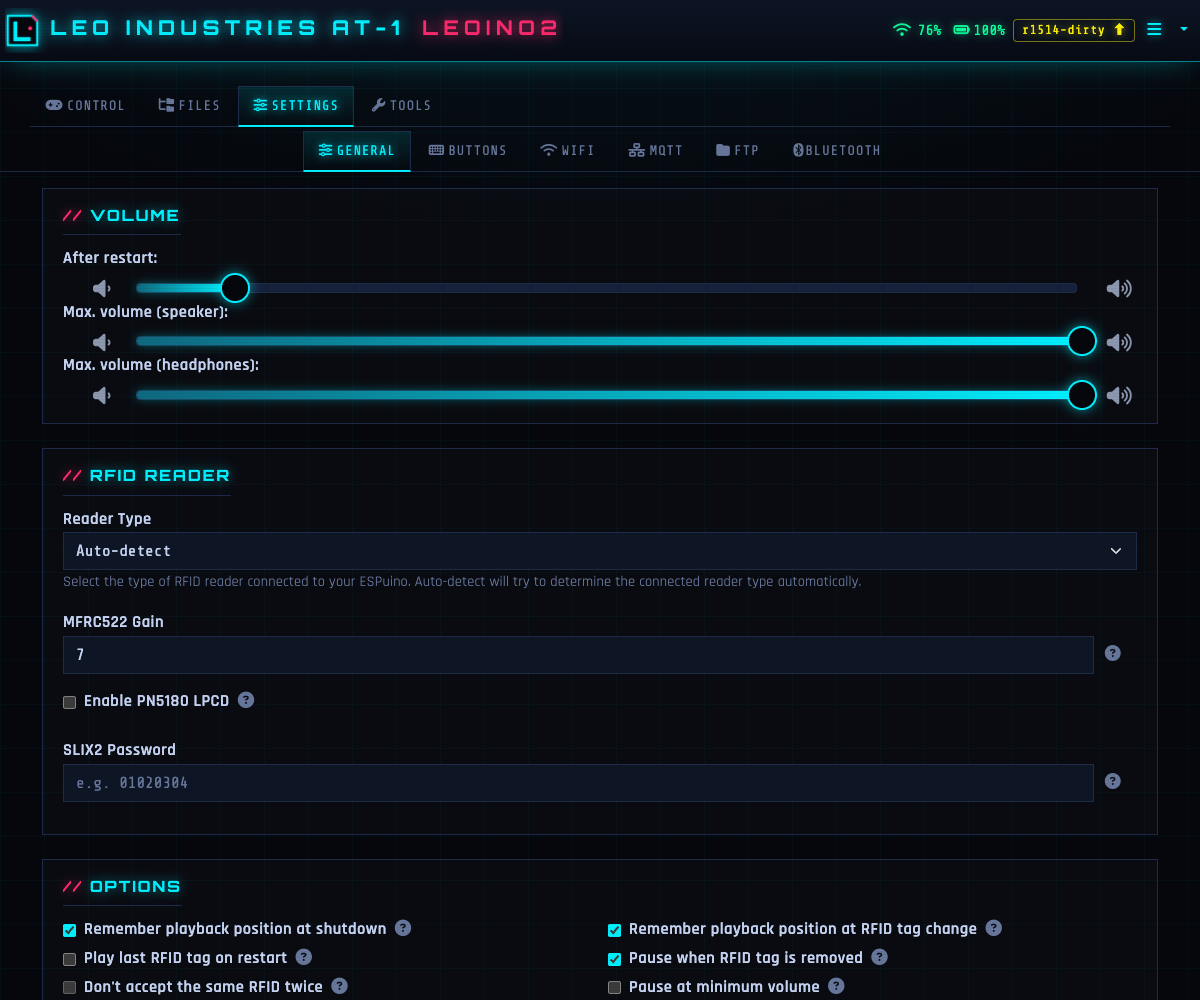
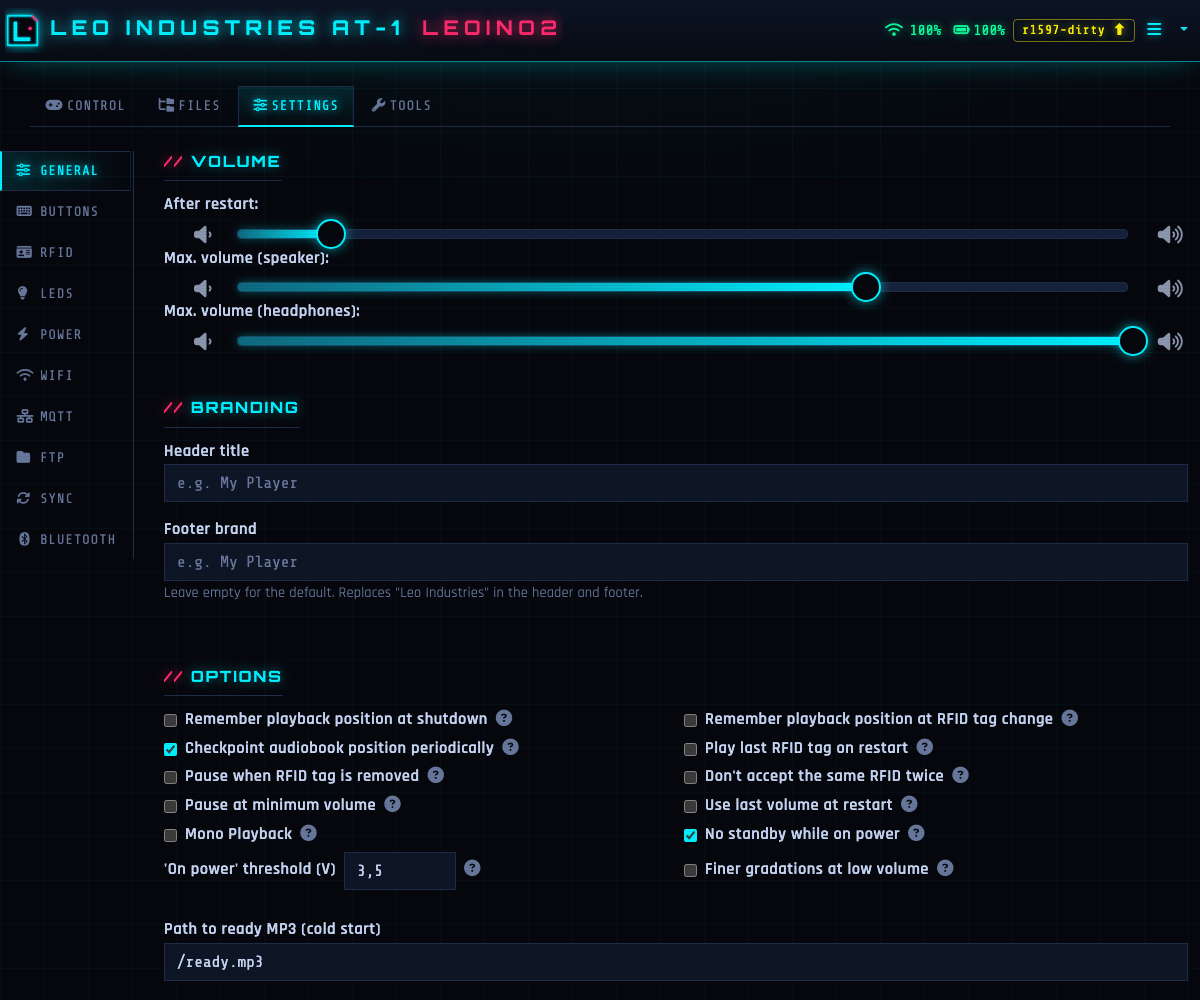
docs: refresh settings screenshots + note the vertical/flat settings UI
Re-shoot feat-settings.png and feat-buttons.png to show the new vertical
UniFi-style settings sidebar and the flat, consistent section styling (the old
shots showed the horizontal sub-tab row, boxed sections and the since-moved
RFID-reader settings). Update the prose that still called the sub-tabs
"horizontal" and add a "Settings UI polish" row covering the vertical sidebar,
flat sections, dropped "Advanced settings" heading and the OTA-badge scroll fix.

diff --git a/README.md b/README.md
@@ -101,6 +101,7 @@ neon logo that doubles as the SVG favicon ([`7be5254`](../../commit/7be5254)):
 
 | Change | Commit |
 | --- | --- |
+| **Settings UI polish**: the Settings sub-tabs are now a **vertical UniFi-style sidebar** (icon + label on desktop, a narrow icon-only rail on mobile) instead of a horizontal tab row, with a cyan left-border active indicator. All settings panes share one **flat** section style (`// heading` + cyan-gradient separators) — previously some panes boxed each section in a fieldset card while others (WiFi/MQTT/FTP/Sync/BT) were flat. Also drops a stray "Advanced settings" heading, and the navbar's amber "update available" badge now scrolls the firmware-update section into view when it starts the OTA | [`32aabfd`](../../commit/32aabfd) · [`[phone redacted]`](../../commit/[phone redacted]) · [`5c3dd45`](../../commit/5c3dd45) |
 | **Audiobook resume hardening**: while an audio book plays, the play-position is now checkpointed to flash every ~30 s (new **"Checkpoint audiobook position periodically"** option, on by default), so an *ungraceful* power-off (dead battery, hard power switch) only loses the last few seconds instead of falling back to the start of the track — the existing save points (track change / RFID swap / graceful shutdown) didn't cover a sudden loss of power mid-track. The learned-cards list shows each audiobook tag's saved resume point and adds a **restart-from-beginning** button (new `POST /rfidresetpos`) to clear it. i18n de/en/fr | [`a9f498f`](../../commit/a9f498f) |
 | **EQ-rule store overflow guard**: per-path EQ rules are serialized into a single NVS string capped at ~4 KB; adding too many used to silently fail. The device now rejects an over-full save with `HTTP 413` (and reports a failed NVS write as `500`), and the Files tab surfaces a clear *"EQ rule storage is full"* toast instead of losing the rule without feedback | [`addff5c`](../../commit/addff5c) |
 | **HTTP-sync robustness**: the file-sync manifest is now streamed straight from the network into the JSON parser (instead of buffering the whole payload in a `String` first), roughly halving peak RAM during the parse on large manifests; the cross-core sync progress message is guarded by a spinlock so the web UI can never read a half-written line | [`42d2c46`](../../commit/42d2c46) |
@@ -133,7 +134,7 @@ neon logo that doubles as the SVG favicon ([`7be5254`](../../commit/7be5254)):
 | System-information dialog rendered as a clean property/value table (instead of preformatted text) and extended with the PN5180 RFID-reader firmware version (read once from the reader's EEPROM at init and exposed via `/info`) | [`715d867`](../../commit/715d867) |
 | Rolling build version (`rN` from the commit count, embedded via `gitVersion.py` and published in the release `version.json`) shown as a navbar badge — green when the device runs the latest rolling release, amber when an update is available (passive `/version` check); clicking the amber badge starts the GitHub OTA; also listed in the info dialog | [`b736abc`](../../commit/b736abc) |
 | Home Assistant **MQTT discovery**: on connect the device auto-registers all entities under one HA device — track/status/firmware/software/WiFi (+ battery) sensors, volume & LED-brightness numbers, lock & ambient-light switches, equalizer select, and transport/update/shutdown buttons | [`db73db1`](../../commit/db73db1) |
-| Consolidated **Settings** tab (UniFi-style): WiFi, MQTT, FTP and Bluetooth settings merged with the general settings into one top tab with centered horizontal sub-tabs (General / Buttons / WiFi / MQTT / FTP / Bluetooth), the button-assignment config moved into its own **Buttons** sub-tab, plus an FTP start/stop button in the control tab; also fixes the sleep-timer dropdown staying open on outside-click and the desktop control-tab volume slider rendering at zero width | [`8b01876`](../../commit/8b01876) |
+| Consolidated **Settings** tab (UniFi-style): WiFi, MQTT, FTP and Bluetooth settings merged with the general settings into one top tab with sub-tabs (General / Buttons / WiFi / MQTT / FTP / Bluetooth), the button-assignment config moved into its own **Buttons** sub-tab, plus an FTP start/stop button in the control tab; also fixes the sleep-timer dropdown staying open on outside-click and the desktop control-tab volume slider rendering at zero width | [`8b01876`](../../commit/8b01876) |
 | Battery-backed **RTC** (DS3231): optional `RTC_ENABLE` adds a real-time clock on the external I²C bus so the time stays correct without WiFi/NTP. The RTC stores UTC and seeds the system clock at boot (before WiFi is up); NTP remains the master and disciplines the RTC on every sync and hourly. Current time (and DS3231 die-temperature) shown in the info dialog, published via the MQTT state-topic `rtc` (+ Home Assistant discovery), and the RTC can be re-disciplined from system time via the bindable command **155** (button/RFID modifier) | [`bf90f66`](../../commit/bf90f66) |
 | **Status control-LEDs**: the optional control LEDs (`NUM_CONTROL_LEDS`, soldered to the end of the same NeoPixel data line — no extra GPIO) can now mirror a runtime state instead of just showing a static color. Each control LED gets a per-slot function in the LED settings — **Static** (legacy fixed color), **Key lock** (red while controls are locked), **Repeat mode** (green = track, blue = playlist, purple = both), **Bluetooth** (violet = waiting, blue = connected), **Battery level** (state of charge as a green→yellow→red gradient) or **Off**. A master switch mutes all control LEDs (e.g. at night), toggleable via the bindable command **121** (button/RFID modifier) and the MQTT command/state-topic `control_leds` (`ON`/`OFF`, + Home Assistant discovery switch) | [`d12a496`](../../commit/d12a496) |
 | **HTTP file sync**: pull audio files from a web server (e.g. nginx) onto the SD card. A new **Sync** settings sub-tab takes a manifest URL plus optional HTTP Basic Auth (user/password); the device fetches a JSON manifest (`{"files":[{"path","size"},…]}`) and downloads every listed file that is missing locally or differs in size, streaming each in small chunks straight to SD. Additive only (never deletes), runs in a background task, and shows live progress including the file currently being downloaded plus a stop button to cancel a running sync. The **Sync** settings sub-tab holds the config (manifest URL + Basic Auth) and documents the manifest format/nginx setup; the actual run button and live progress live in the **Tools** tab, with a shortcut button in the Sync sub-tab that jumps there. If audio is playing when a sync starts, playback is paused for the SD-writing phase and resumes automatically when the sync finishes; pressing play (or skipping a track) cancels the running sync and resumes playback immediately. Any button press (or triggered command) also aborts a running sync — toggleable in the Sync settings sub-tab (default on). Reloading the web UI reconnects to a sync still running in the background instead of showing an idle state. A stalled download (connection open but no data for 20 s) is aborted and marked failed so one bad/slow file can't hang the whole sync. While a sync runs the NeoPixel indicator LEDs light solid blue (a single transmission while the LED task is paused, so there is no repeated refresh to starve WiFi/TLS). A running sync also keeps the device awake: since the sync runs in a background task and pauses playback, it no longer refreshes the activity timer on its own, so the inactivity timeout / sleep-timer is suppressed while a sync is in progress — preventing the device from going to deep-sleep mid-transfer (which would tear down the SD card and abort the sync); the timer resumes normally once the sync finishes | [`ac24bbc`](../../commit/ac24bbc) |
@@ -184,7 +185,7 @@ neon logo that doubles as the SVG favicon ([`7be5254`](../../commit/7be5254)):
 
 <div align="center"><img src="docs/img/feat-control-bt.png" width="640" alt="Bluetooth-mode dropdown"></div>
 
-**Settings tab** — WiFi / MQTT / FTP / Bluetooth merged with the general settings into one tab with horizontal sub-tabs ([`8b01876`](../../commit/8b01876)):
+**Settings tab** — WiFi / MQTT / FTP / Bluetooth merged with the general settings into one tab, laid out as a vertical UniFi-style sidebar with flat, consistent sections ([`8b01876`](../../commit/8b01876), [`32aabfd`](../../commit/32aabfd)):
 
 <div align="center"><img src="docs/img/feat-settings.png" width="860" alt="Consolidated Settings tab with sub-tabs"></div>
 